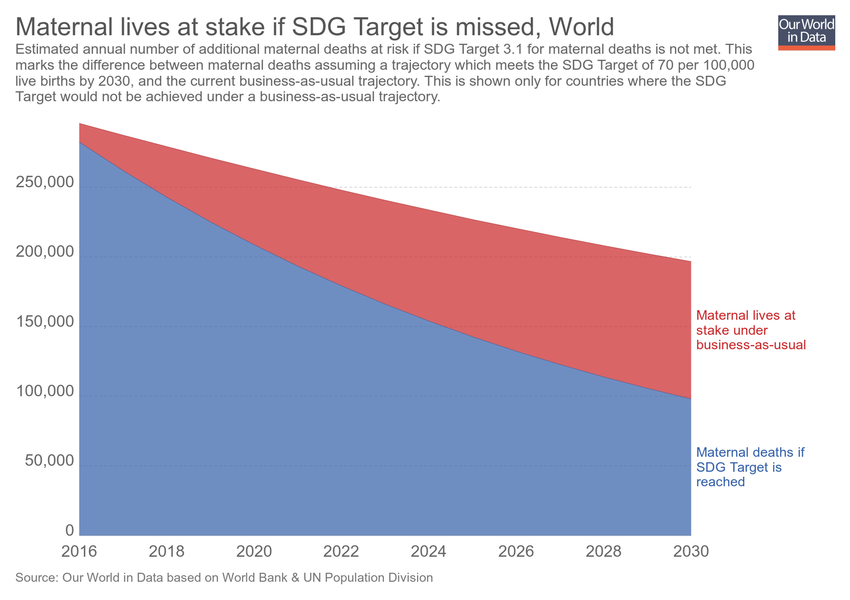
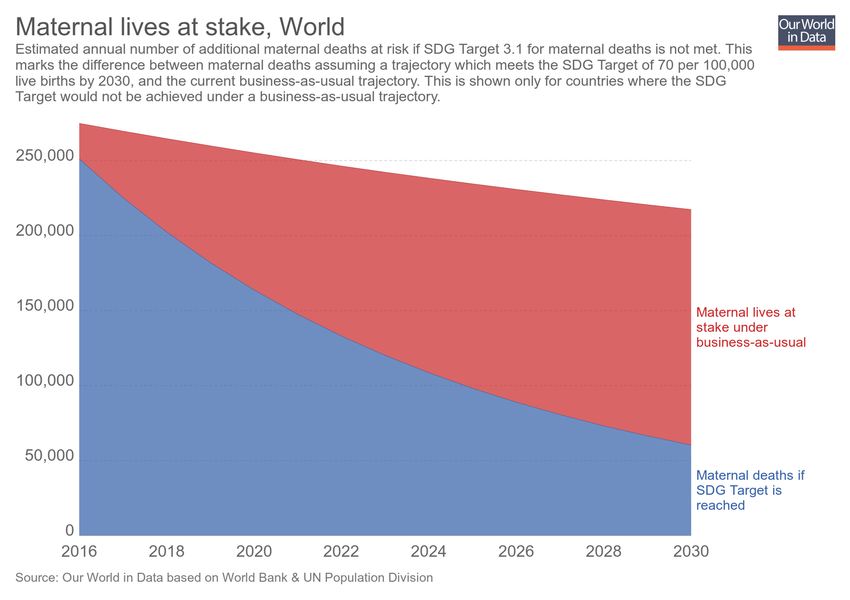
Publishing chart cumulative-maternal-lives-at-stake-2030

diff --git a/grapher/maternal-lives-at-stake-2030.html b/grapher/maternal-lives-at-stake-2030.html
@@ -1,4 +1,4 @@
-<!doctype html><html><head><meta name="viewport" content="width=device-width, initial-scale=1" /><title>Maternal lives at stake if SDG Target is missed - Our World in Data</title><meta name="description" content="Estimated annual number of additional maternal deaths at risk if SDG Target 3.1 for maternal deaths is not met. This marks the difference between maternal deaths assuming a trajectory which meets the SDG Target of 70 per 100,000 live births by 2030, and the current business-as-usual trajectory. This is shown only for countries where the SDG Target would not be achieved under a business-as-usual trajectory." /><link rel="canonical" href="https://ourworldindata.org/grapher/maternal-lives-at-stake-2030" /><meta property="fb:app_id" content="1149943818390250" /><meta property="og:url" content="https://ourworldindata.org/grapher/maternal-lives-at-stake-2030" /><meta property="og:title" content="Maternal lives at stake if SDG Target is missed" /><meta property="og:description" content="Estimated annual number of additional maternal deaths at risk if SDG Target 3.1 for maternal deaths is not met. This marks the difference between maternal deaths assuming a trajectory which meets the SDG Target of 70 per 100,000 live births by 2030, and the current business-as-usual trajectory. This is shown only for countries where the SDG Target would not be achieved under a business-as-usual trajectory." /><meta property="og:image" content="https://ourworldindata.org/grapher/exports/maternal-lives-at-stake-2030.png?v=2" /><meta property="og:image:width" content="850" /><meta property="og:image:height" content="600" /><meta property="og:site_name" content="Our World in Data" /><meta name="twitter:card" content="summary_large_image" /><meta name="twitter:site" content="@OurWorldInData" /><meta name="twitter:creator" content="@OurWorldInData" /><meta name="twitter:title" content="Maternal lives at stake if SDG Target is missed" /><meta name="twitter:description" content="Estimated annual number of additional maternal deaths at risk if SDG Target 3.1 for maternal deaths is not met. This marks the difference between maternal deaths assuming a trajectory which meets the SDG Target of 70 per 100,000 live births by 2030, and the current business-as-usual trajectory. This is shown only for countries where the SDG Target would not be achieved under a business-as-usual trajectory." /><meta name="twitter:image" content="https://ourworldindata.org/grapher/exports/maternal-lives-at-stake-2030.png?v=2" /><style>
+<!doctype html><html><head><meta name="viewport" content="width=device-width, initial-scale=1" /><title>Maternal lives at stake - Our World in Data</title><meta name="description" content="Estimated annual number of additional maternal deaths at risk if SDG Target 3.1 for maternal deaths is not met. This marks the difference between maternal deaths assuming a trajectory which meets the SDG Target of 70 per 100,000 live births by 2030, and the current business-as-usual trajectory. This is shown only for countries where the SDG Target would not be achieved under a business-as-usual trajectory." /><link rel="canonical" href="https://ourworldindata.org/grapher/maternal-lives-at-stake-2030" /><meta property="fb:app_id" content="1149943818390250" /><meta property="og:url" content="https://ourworldindata.org/grapher/maternal-lives-at-stake-2030" /><meta property="og:title" content="Maternal lives at stake" /><meta property="og:description" content="Estimated annual number of additional maternal deaths at risk if SDG Target 3.1 for maternal deaths is not met. This marks the difference between maternal deaths assuming a trajectory which meets the SDG Target of 70 per 100,000 live births by 2030, and the current business-as-usual trajectory. This is shown only for countries where the SDG Target would not be achieved under a business-as-usual trajectory." /><meta property="og:image" content="https://ourworldindata.org/grapher/exports/maternal-lives-at-stake-2030.png?v=3" /><meta property="og:image:width" content="850" /><meta property="og:image:height" content="600" /><meta property="og:site_name" content="Our World in Data" /><meta name="twitter:card" content="summary_large_image" /><meta name="twitter:site" content="@OurWorldInData" /><meta name="twitter:creator" content="@OurWorldInData" /><meta name="twitter:title" content="Maternal lives at stake" /><meta name="twitter:description" content="Estimated annual number of additional maternal deaths at risk if SDG Target 3.1 for maternal deaths is not met. This marks the difference between maternal deaths assuming a trajectory which meets the SDG Target of 70 per 100,000 live births by 2030, and the current business-as-usual trajectory. This is shown only for countries where the SDG Target would not be achieved under a business-as-usual trajectory." /><meta name="twitter:image" content="https://ourworldindata.org/grapher/exports/maternal-lives-at-stake-2030.png?v=3" /><style>
         html, body {
             height: 100%;
             margin: 0;
@@ -20,8 +20,8 @@
         }
     </style><noscript><style>
                     figure { display: none !important; }
-                </style></noscript><link rel="stylesheet" href="https://ourworldindata.org/grapher/assets/commons.bundle.397229a8467cf53bfc99.css" /><link rel="preload" href="/grapher/data/variables/97961+97960.json?v=2" as="fetch" crossorigin /></head><body class="singleChart"><figure data-grapher-src="/grapher/maternal-lives-at-stake-2030"></figure><noscript id="fallback"><img src="/grapher/exports/maternal-lives-at-stake-2030.svg" /><p>Interactive visualization requires JavaScript</p></noscript><script src="https://cdn.polyfill.io/v2/polyfill.min.js?features=es6,fetch"></script><script src="https://ourworldindata.org/grapher/assets/commons.bundle.397229a8467cf53bfc99.js"></script><script src="https://ourworldindata.org/grapher/assets/charts.bundle.397229a8467cf53bfc99.js"></script><script>
-        var jsonConfig = {"id":3023,"map":{"projection":"World","colorSchemeLabels":[],"colorSchemeValues":[],"customNumericColors":[],"customCategoryColors":{},"customCategoryLabels":{},"customHiddenCategories":{}},"tab":"chart","slug":"maternal-lives-at-stake-2030","type":"StackedArea","title":"Maternal lives at stake if SDG Target is missed","xAxis":{"scaleType":"linear"},"yAxis":{"min":0,"scaleType":"linear"},"version":2,"subtitle":"Estimated annual number of additional maternal deaths at risk if SDG Target 3.1 for maternal deaths is not met. This marks the difference between maternal deaths assuming a trajectory which meets the SDG Target of 70 per 100,000 live births by 2030, and the current business-as-usual trajectory. This is shown only for countries where the SDG Target would not be achieved under a business-as-usual trajectory.","hasMapTab":false,"stackMode":"absolute","dimensions":[{"display":{"name":"Maternal lives at stake under business-as-usual","numDecimalPlaces":0},"property":"y","variableId":97961},{"display":{"name":"Maternal deaths if SDG Target is reached","numDecimalPlaces":0},"property":"y","variableId":97960}],"sourceDesc":"Our World in Data based on World Bank & UN Population Division","hasChartTab":true,"isPublished":true,"selectedData":[{"color":"#ca2628","index":0,"entityId":355},{"index":1,"entityId":355}],"addCountryMode":"change-country"};
+                </style></noscript><link rel="stylesheet" href="https://ourworldindata.org/grapher/assets/commons.bundle.397229a8467cf53bfc99.css" /><link rel="preload" href="/grapher/data/variables/97961+97960.json?v=3" as="fetch" crossorigin /></head><body class="singleChart"><figure data-grapher-src="/grapher/maternal-lives-at-stake-2030"></figure><noscript id="fallback"><img src="/grapher/exports/maternal-lives-at-stake-2030.svg" /><p>Interactive visualization requires JavaScript</p></noscript><script src="https://cdn.polyfill.io/v2/polyfill.min.js?features=es6,fetch"></script><script src="https://ourworldindata.org/grapher/assets/commons.bundle.397229a8467cf53bfc99.js"></script><script src="https://ourworldindata.org/grapher/assets/charts.bundle.397229a8467cf53bfc99.js"></script><script>
+        var jsonConfig = {"id":3023,"map":{"projection":"World","colorSchemeLabels":[],"colorSchemeValues":[],"customNumericColors":[],"customCategoryColors":{},"customCategoryLabels":{},"customHiddenCategories":{}},"tab":"chart","slug":"maternal-lives-at-stake-2030","type":"StackedArea","title":"Maternal lives at stake","xAxis":{"scaleType":"linear"},"yAxis":{"min":0,"scaleType":"linear"},"version":3,"subtitle":"Estimated annual number of additional maternal deaths at risk if SDG Target 3.1 for maternal deaths is not met. This marks the difference between maternal deaths assuming a trajectory which meets the SDG Target of 70 per 100,000 live births by 2030, and the current business-as-usual trajectory. This is shown only for countries where the SDG Target would not be achieved under a business-as-usual trajectory.","hasMapTab":false,"stackMode":"absolute","dimensions":[{"display":{"name":"Maternal lives at stake under business-as-usual","numDecimalPlaces":0},"property":"y","variableId":97961},{"display":{"name":"Maternal deaths if SDG Target is reached","numDecimalPlaces":0},"property":"y","variableId":97960}],"sourceDesc":"Our World in Data based on World Bank & UN Population Division","hasChartTab":true,"isPublished":true,"selectedData":[{"color":"#ca2628","index":0,"entityId":355},{"index":1,"entityId":355}],"addCountryMode":"change-country"};
         var figure = document.getElementsByTagName("figure")[0];
         try {
             window.App = {};

diff --git a/grapher/cumulative-maternal-lives-at-stake-2030.html b/grapher/cumulative-maternal-lives-at-stake-2030.html
@@ -1,0 +1,35 @@
+<!doctype html><html><head><meta name="viewport" content="width=device-width, initial-scale=1" /><title>Cumulative maternal lives at stake - Our World in Data</title><meta name="description" content="Estimated cumulative number of additional maternal deaths at risk if SDG Target 3.1 for maternal deaths is not met. This marks the difference between maternal deaths assuming a trajectory which meets the SDG Target of 70 per 100,000 live births by 2030, and the current business-as-usual trajectory. This is shown only for countries where the SDG Target would not be achieved under a business-as-usual trajectory." /><link rel="canonical" href="https://ourworldindata.org/grapher/cumulative-maternal-lives-at-stake-2030" /><meta property="fb:app_id" content="1149943818390250" /><meta property="og:url" content="https://ourworldindata.org/grapher/cumulative-maternal-lives-at-stake-2030" /><meta property="og:title" content="Cumulative maternal lives at stake" /><meta property="og:description" content="Estimated cumulative number of additional maternal deaths at risk if SDG Target 3.1 for maternal deaths is not met. This marks the difference between maternal deaths assuming a trajectory which meets the SDG Target of 70 per 100,000 live births by 2030, and the current business-as-usual trajectory. This is shown only for countries where the SDG Target would not be achieved under a business-as-usual trajectory." /><meta property="og:image" content="https://ourworldindata.org/grapher/exports/cumulative-maternal-lives-at-stake-2030.png?v=1" /><meta property="og:image:width" content="850" /><meta property="og:image:height" content="600" /><meta property="og:site_name" content="Our World in Data" /><meta name="twitter:card" content="summary_large_image" /><meta name="twitter:site" content="@OurWorldInData" /><meta name="twitter:creator" content="@OurWorldInData" /><meta name="twitter:title" content="Cumulative maternal lives at stake" /><meta name="twitter:description" content="Estimated cumulative number of additional maternal deaths at risk if SDG Target 3.1 for maternal deaths is not met. This marks the difference between maternal deaths assuming a trajectory which meets the SDG Target of 70 per 100,000 live births by 2030, and the current business-as-usual trajectory. This is shown only for countries where the SDG Target would not be achieved under a business-as-usual trajectory." /><meta name="twitter:image" content="https://ourworldindata.org/grapher/exports/cumulative-maternal-lives-at-stake-2030.png?v=1" /><style>
+        html, body {
+            height: 100%;
+            margin: 0;
+        }
+
+        figure[data-grapher-src], #fallback {
+            display: flex;
+            align-items: center;
+            justify-content: center;
+            flex-direction: column;
+            margin: 0;
+            width: 100%;
+            height: 100%;
+        }
+
+        #fallback > img {
+            max-width: 100%;
+            border: 1px solid #ccc;
+        }
+    </style><noscript><style>
+                    figure { display: none !important; }
+                </style></noscript><link rel="stylesheet" href="https://ourworldindata.org/grapher/assets/commons.bundle.397229a8467cf53bfc99.css" /><link rel="preload" href="/grapher/data/variables/97966+97967.json?v=1" as="fetch" crossorigin /></head><body class="singleChart"><figure data-grapher-src="/grapher/cumulative-maternal-lives-at-stake-2030"></figure><noscript id="fallback"><img src="/grapher/exports/cumulative-maternal-lives-at-stake-2030.svg" /><p>Interactive visualization requires JavaScript</p></noscript><script src="https://cdn.polyfill.io/v2/polyfill.min.js?features=es6,fetch"></script><script src="https://ourworldindata.org/grapher/assets/commons.bundle.397229a8467cf53bfc99.js"></script><script src="https://ourworldindata.org/grapher/assets/charts.bundle.397229a8467cf53bfc99.js"></script><script>
+        var jsonConfig = {"map":{"projection":"World","colorSchemeLabels":[],"colorSchemeValues":[],"customNumericColors":[],"customCategoryColors":{},"customCategoryLabels":{},"customHiddenCategories":{}},"tab":"chart","slug":"cumulative-maternal-lives-at-stake-2030","type":"StackedArea","title":"Cumulative maternal lives at stake","xAxis":{"scaleType":"linear"},"yAxis":{"min":0,"scaleType":"linear"},"version":1,"subtitle":"Estimated cumulative number of additional maternal deaths at risk if SDG Target 3.1 for maternal deaths is not met. This marks the difference between maternal deaths assuming a trajectory which meets the SDG Target of 70 per 100,000 live births by 2030, and the current business-as-usual trajectory. This is shown only for countries where the SDG Target would not be achieved under a business-as-usual trajectory.","hasMapTab":false,"stackMode":"absolute","dimensions":[{"display":{"name":"Cumulative maternal deaths if SDG Target is reached"},"property":"y","variableId":97966},{"display":{"name":"Cumulative maternal lives at stake under business-as-usual"},"property":"y","variableId":97967}],"sourceDesc":"Our World in Data based on World Bank & UN Population Division","hasChartTab":true,"isPublished":true,"selectedData":[{"color":"#ca2628","index":1,"entityId":355},{"color":"#3360a9","index":0,"entityId":355}],"addCountryMode":"change-country","id":3025};
+        var figure = document.getElementsByTagName("figure")[0];
+        try {
+            window.App = {};
+            window.Global = { rootUrl: 'https://ourworldindata.org/grapher' };
+            ChartView.bootstrap({ jsonConfig: jsonConfig, containerNode: figure })
+        } catch (err) {
+            figure.innerHTML = "<img src=\"/grapher/exports/cumulative-maternal-lives-at-stake-2030.svg\"/><p>Unable to load interactive visualization</p>";
+            figure.setAttribute("id", "fallback");
+            throw err;
+        }
+    </script></body></html>
